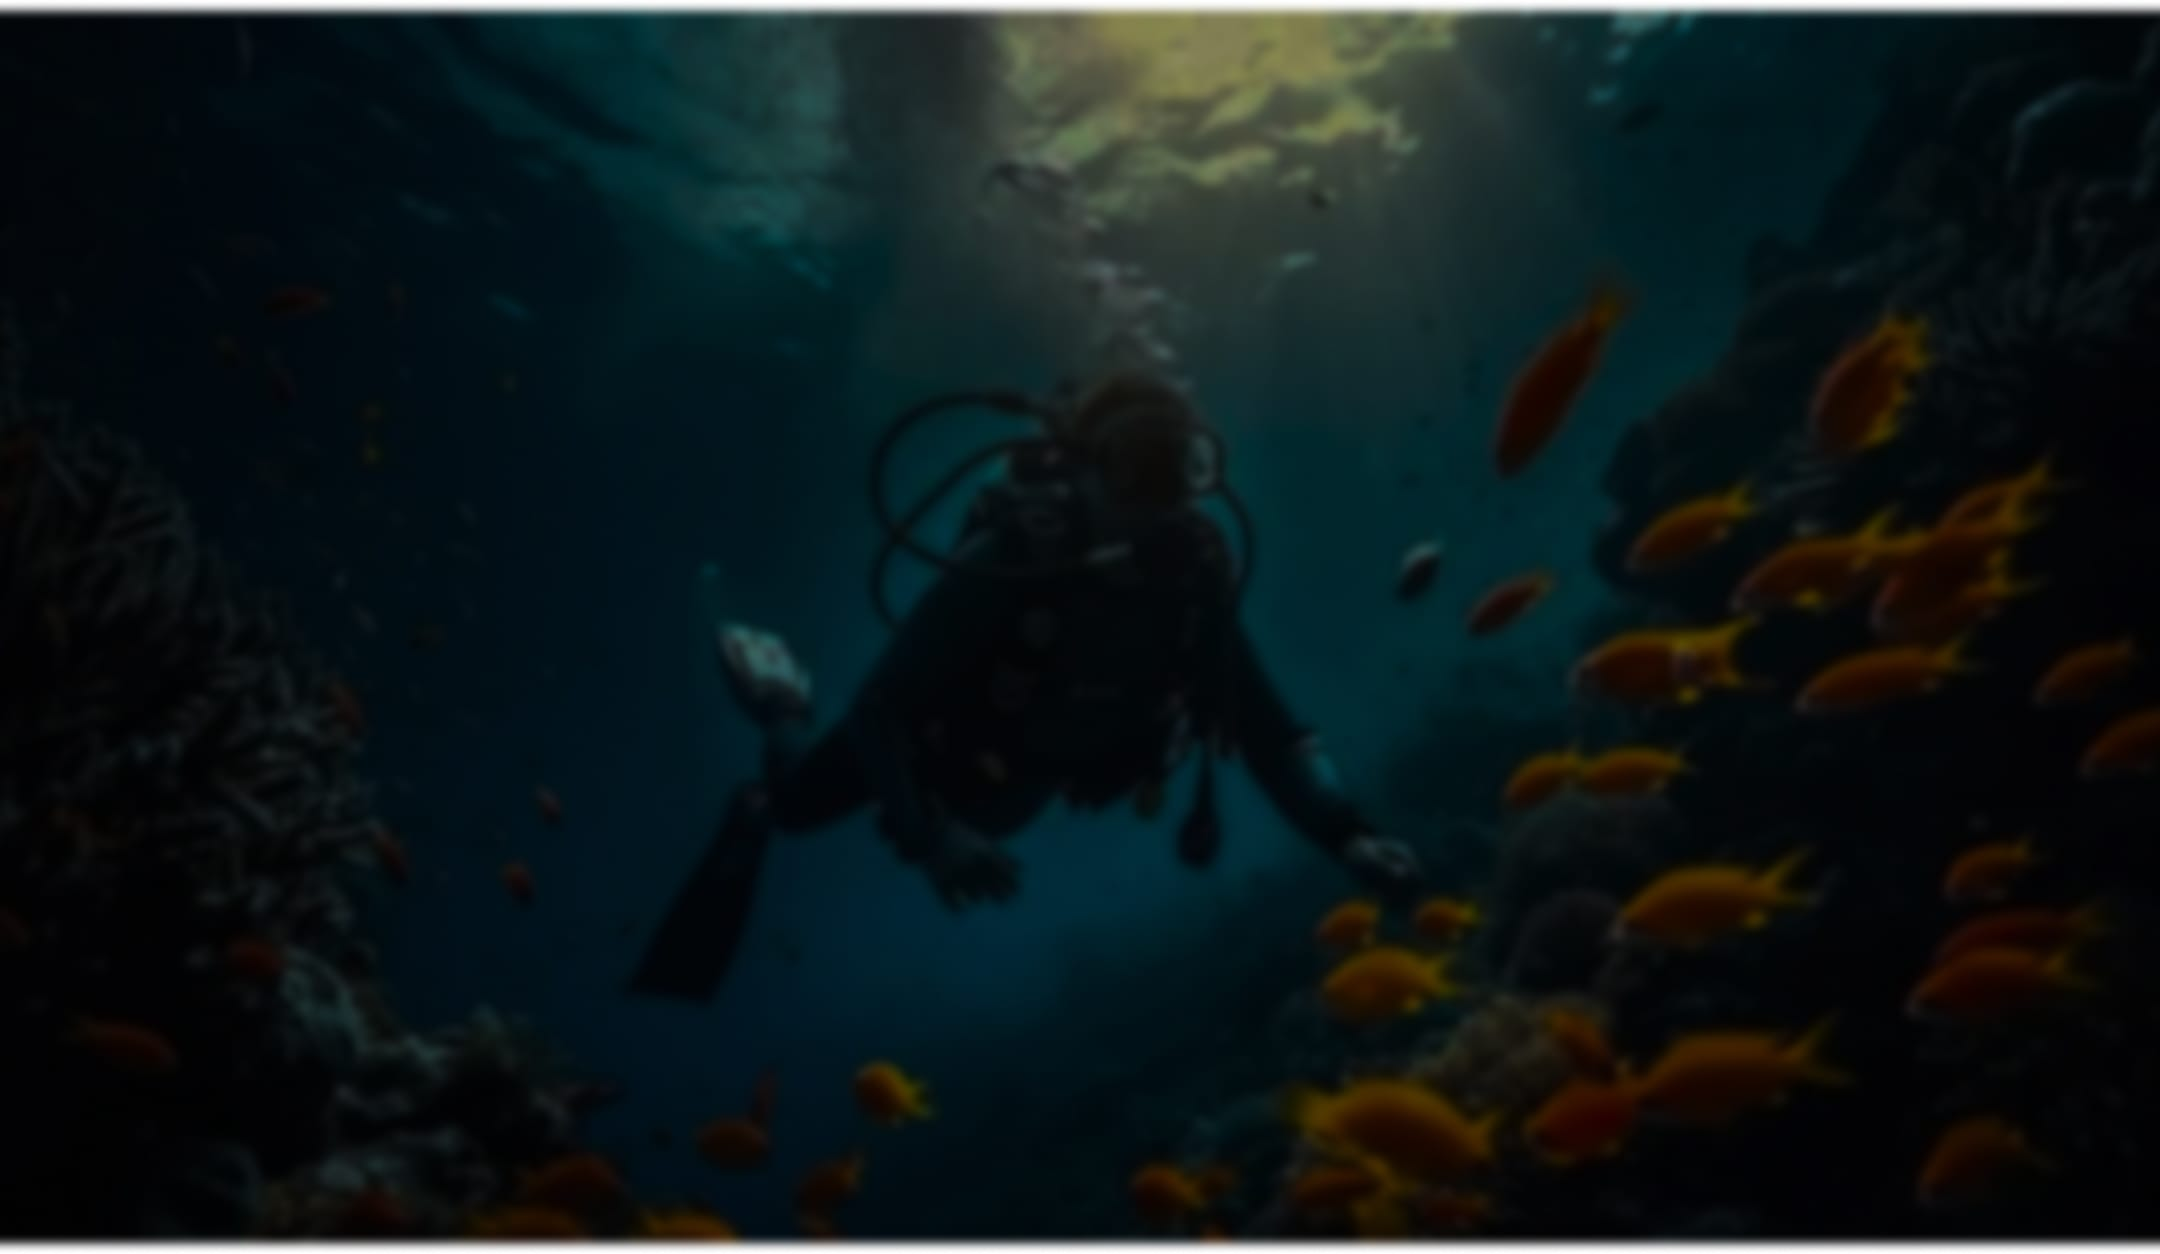
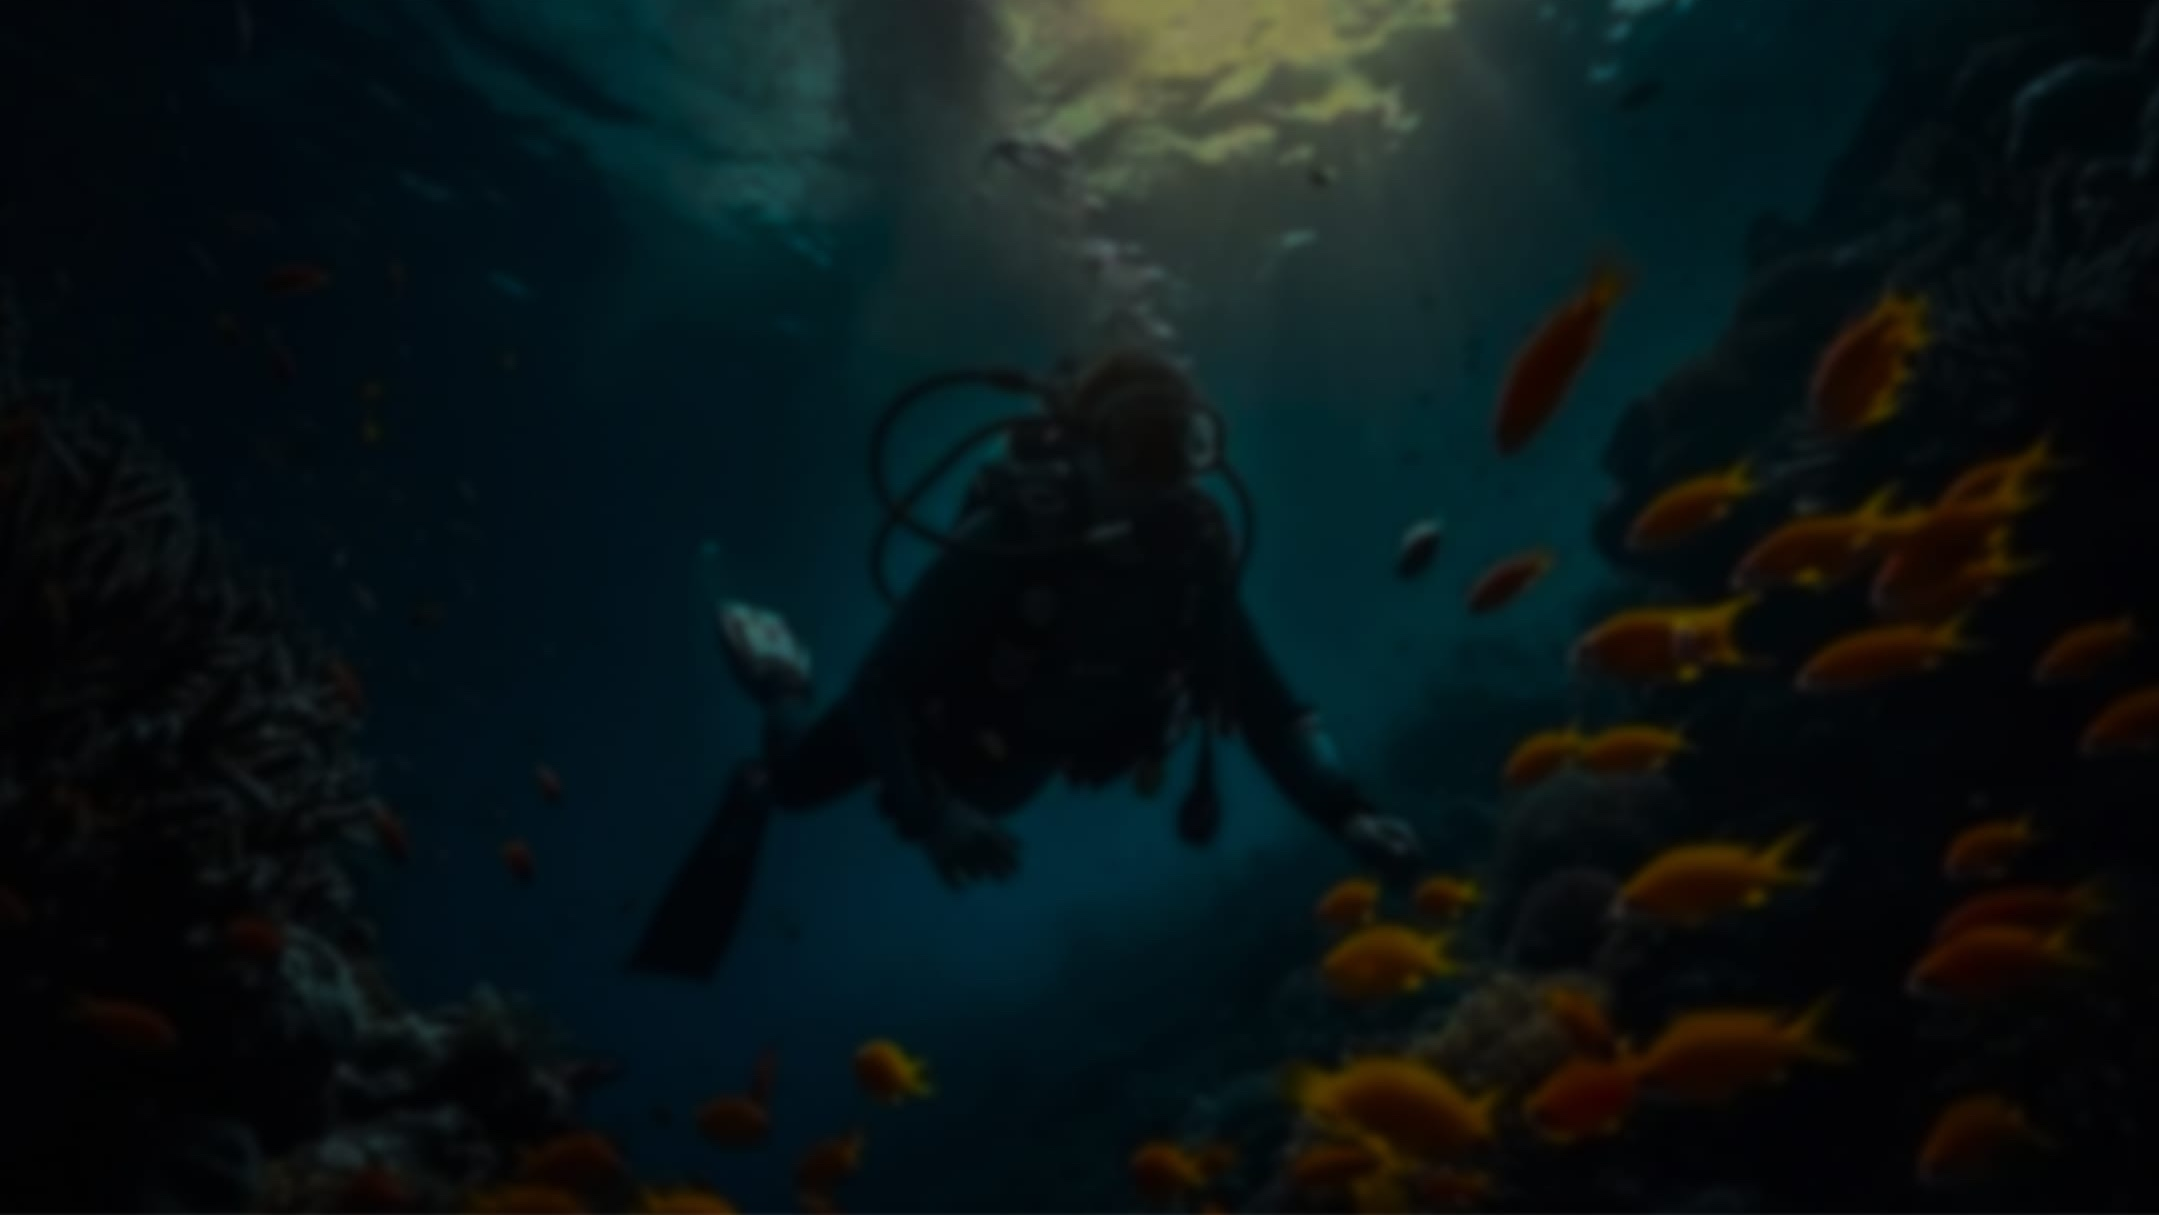
Adaptive mobile version

diff --git a/src/components/Header/style.css b/src/components/Header/style.css
@@ -19,7 +19,7 @@ header:before {
     left: 0;
     width: 100%;
     height: 60%;
-    background-image: linear-gradient(0deg, #09181caa 0%, #09181c99 50%, #28718200 100%);
+    background-image: linear-gradient(0deg, #09181cff 0%, #09181c99 60%, #28718200 100%);
 }
 
 .header-top {
@@ -59,6 +59,15 @@ nav a:hover {
     color: #e0c2ff;
 }
 
+.header-top .burger {
+    display: none;
+    cursor: pointer;
+}
+
+.header-top .burger img {
+    pointer-events: none;
+}
+
 .logo {
     display: flex;
     align-items: center;
@@ -86,18 +95,76 @@ nav a:hover {
     gap: 30px;
     flex-direction: column;
     align-items: start;
-    padding-bottom: 100px;
+    padding-bottom: 50px;
 }
 
 .hero h1 {
     font-family: var(--header-font);
-    font-weight: 300;
+    font-weight: 400;
     margin: 0;
-    font-size: clamp(34px, 4vw, 50px);
+    font-size: clamp(30px, 4vw, 50px);
 }
 
 .hero p {
-    font-size: clamp(20px, 2vw, 24px);
+    font-size: clamp(18px, 2vw, 24px);
     line-height: 1.5;
     margin: 0;
+}
+
+@media (max-width: 1000px) {
+    header {
+        height: 660px;
+        background-position: 50% -40px;
+    }
+
+    header nav {
+        position: absolute;
+        top: 100%;
+        left: 0;
+        flex-direction: column;
+        background-image: var(--footer-gradient);
+        width: 100%;
+        align-items: center;
+        z-index: 10;
+        max-height: 0px;
+        transition: all 0.3s;
+        overflow: hidden;
+    }
+
+    .header-top {
+        position: fixed;
+    }
+
+    .header-top .burger {
+        height: 30px;
+        width: 30px;
+        display: flex;
+        align-items: center;
+        justify-content: center;
+        background: none;
+        border: none;
+    }
+
+    header nav.show {
+        max-height: 300px;
+        padding: 30px 0;
+    }
+
+    .hero {
+        padding-bottom: 30px;
+    }
+
+    .hero h1 {
+        line-height: 1;
+    }
+
+    .hero p {
+        line-height: 1.3;
+    }
+}
+
+@media (max-width: 500px) {
+    .hero button {
+        width: 100%;
+    }
 }

diff --git a/src/components/Header/index.tsx b/src/components/Header/index.tsx
@@ -1,13 +1,32 @@
-import { useContext } from 'react';
+import { useContext, useEffect, useRef, useState } from 'react';
 import { Button } from '@components/ui';
 import { InputContext } from '@/InputContext';
 import './style.css';
 
 export const Header = () => {
     const inputRef = useContext(InputContext);
+    const navRef = useRef(null);
+    const buttonRef = useRef(null);
+    const [show, setShow] = useState(false);
     const handleClick = () => {
         inputRef?.current?.focus();
     };
+
+    useEffect(() => {
+        const handle = (e: Event) => {
+            const { target } = e;
+
+            if (target !== navRef.current && target !== buttonRef.current) {
+                setShow(false);
+            }
+        };
+
+        document.addEventListener('click', handle);
+
+        return () => {
+            document.removeEventListener('click', handle);
+        };
+    }, []);
 
     return (
         <header>
@@ -20,12 +39,15 @@ export const Header = () => {
                             Дайвинг-центр
                         </div>
                     </a>
-                    <nav>
+                    <nav ref={navRef} className={`${show ? 'show' : ''}`}>
                         <a href="#services">Услуги</a>
                         <a href="#text-us">Напишите нам</a>
                         <a href="#locations">Локации</a>
                         <a href="#contacts">Контакты</a>
                     </nav>
+                    <button ref={buttonRef} type="button" className="burger" onClick={() => setShow(!show)}>
+                        {show ? <img src="img/close.svg" alt="close" /> : <img src="img/burger.svg" alt="burger" />}
+                    </button>
                 </div>
             </div>
             <div></div>

diff --git a/src/components/Locations/LocationItem.tsx b/src/components/Locations/LocationItem.tsx
@@ -8,6 +8,7 @@ export interface LocationItemProps {
 }
 
 export const LocationItem: FC<LocationItemProps> = ({ img, title, description, hit }) => {
+    const isEmpty = !!title && !!description && !!img;
     return (
         <div className="location-item">
             {hit && (
@@ -16,12 +17,15 @@ export const LocationItem: FC<LocationItemProps> = ({ img, title, description, h
                     <img src="img/hit.svg" alt="hit" />
                 </div>
             )}
-            <div className="location-block">
+            <div className={`location-block${!isEmpty ? ' location-block--empty' : ''}`}>
                 {img && <img className="location-image" src={img} alt={title} />}
-                <div className="location-body">
-                    {title && <div className="location-title">{title}</div>}
-                    {description && <div className="location-description">{description}</div>}
-                </div>
+                {title && (
+                    <div className="location-body">
+                        {title && <div className="location-title">{title}</div>}
+                        {description && <div className="location-description">{description}</div>}
+                    </div>
+                )}                
+                {!isEmpty && <div>Планируется...</div>}
             </div>
         </div>
     );

diff --git a/src/components/Footer/style.css b/src/components/Footer/style.css
@@ -118,9 +118,45 @@ footer nav a {
 
 .logo-lines {
     position: absolute;
-    top: 150%;
-    left: 40%;
-    transform: scale(26) rotate(90deg);
+    left: 50%;
+    top: -100px;
+    width: 1000px;
+    height: 1000px;
+
+    background-image: url('/img/logo.svg');
+    background-repeat: no-repeat;
+    background-size: contain;
+    background-position: center;
+    background-origin: 0;
+
+    transform: scale(1) rotate(90deg) translate(0, 67%);
     mix-blend-mode: overlay;
     opacity: 0.1;
+    z-index: 0;
+}
+
+@media (max-width: 1000px) {
+    footer .container {
+        flex-direction: column;
+        gap: 50px;
+        padding-bottom: 40px;
+    }
+
+    footer nav {
+        flex-direction: column;
+        align-items: center;
+    }
+
+    .contacts {
+        gap: 10px;
+    }
+
+    .contacts li {
+        justify-content: center;
+    }
+
+    .logo-lines {
+        top: 200px;
+        transform: scale(1.3) rotate(90deg) translate(0, 46%);
+    }
 }

diff --git a/src/components/Locations/style.css b/src/components/Locations/style.css
@@ -19,7 +19,8 @@
 
 .locations-wrapper {
     display: grid;
-    grid-template-columns: repeat(2, 1fr);
+    grid-template-columns: repeat(auto-fit, minmax(300px, 1fr));
+    grid-template-rows: auto;
     gap: 50px;
 }
 
@@ -36,6 +37,19 @@
     overflow: hidden;
     min-height: 400px;
     border-radius: var(--border-radius);
+}
+
+.location-block--empty {
+    border: 2px dashed silver;
+    justify-content: center;
+    align-items: center;
+    color: #aaa;
+    font-family: var(--header-font);
+    font-weight: 600;
+    font-size: 1.4rem;
+    min-height: auto;
+    padding: 50px 0;
+    height: 100%;
 }
 
 .location-hit {

diff --git a/src/components/TextUs/style.css b/src/components/TextUs/style.css
@@ -2,7 +2,9 @@
     padding: 55px 0;
     background-image: url('/img/form-back.jpg');
     background-size: cover;
+    background-repeat: no-repeat;
     background-position: center;
+    background-attachment: fixed;
     z-index: 3;
 }
 
@@ -36,4 +38,20 @@
     bottom: -70px;
     left: 10%;
     z-index: 0;
+}
+
+@media (max-width: 1000px) {
+    .text-us-wrapper {
+        padding-top: 50px;
+        margin: 0 auto;
+        max-width: 380px;
+        grid-template-columns: 1fr;
+    }
+
+    .aqualung {
+        bottom: auto;
+        top: -30%;
+        left: 50%;
+        transform: translate(-50%, 0) scale(.8);
+    }
 }

diff --git a/src/components/Locations/index.tsx b/src/components/Locations/index.tsx
@@ -15,7 +15,7 @@ export const Locations = () => {
                         <i className="fas fa-exclamation-triangle"></i> {error}
                     </p>
                 )}
-                <div className="locations-wrapper">{!error && !loading && data.length > 0 && data.map((props) => <LocationItem key={props.img} {...props} />)}</div>
+                <div className="locations-wrapper">{!error && !loading && data.length > 0 && data.map((props, idx) => <LocationItem key={idx} {...props} />)}</div>
             </div>
         </div>
     );

diff --git a/src/styles.css b/src/styles.css
@@ -10,10 +10,12 @@ html {
 
 body {
     margin: 0;
-    min-width: 360px;
+    min-width: 400px;
     font-family: var(--main-font);
     background-color: var(--black-color);
     -webkit-font-smoothing: antialiased;
+    overflow-x: hidden;
+    overflow-y: scroll;
 }
 
 :root {
@@ -42,7 +44,7 @@ h2 {
 
 .container {
     position: relative;
-    padding: 0 50px;
+    padding: 0 20px;
     width: 100%;
     max-width: 1200px;
     margin: 0 auto;

diff --git a/src/components/Footer/index.tsx b/src/components/Footer/index.tsx
@@ -44,7 +44,7 @@ export const Footer = () => {
             <img src="img/korall-1.png" className="korall-1" alt="Кораллы" />
             <img src="img/korall-2.png" className="korall-2" alt="Песок" />
             <div className="lines-wrapper">
-                <img src="img/logo.svg" className="logo-lines" alt="logo" />
+                <div className="logo-lines" />
             </div>
         </footer>
     );
